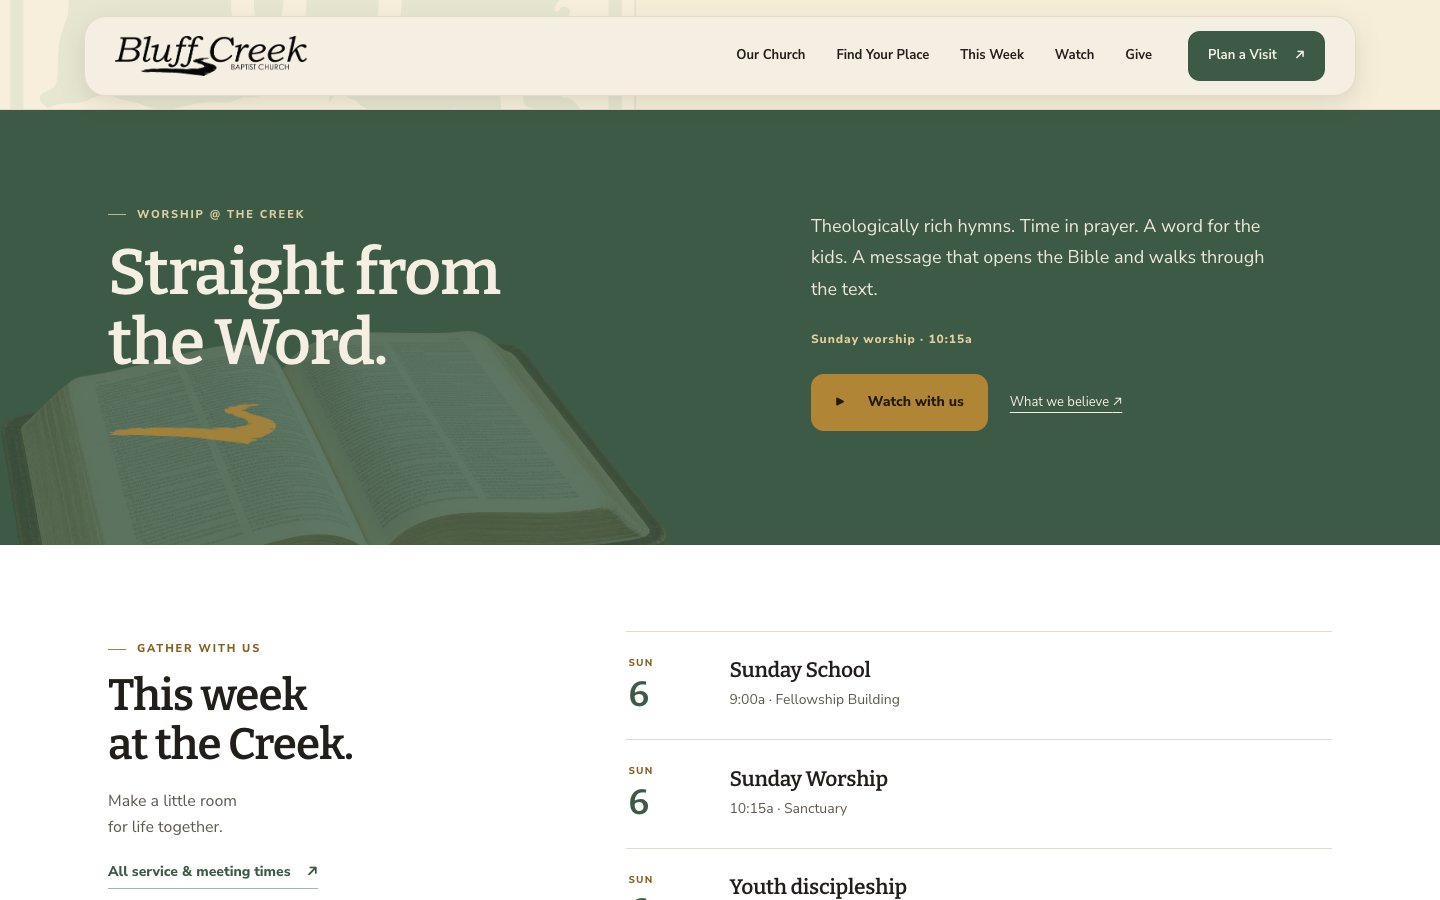
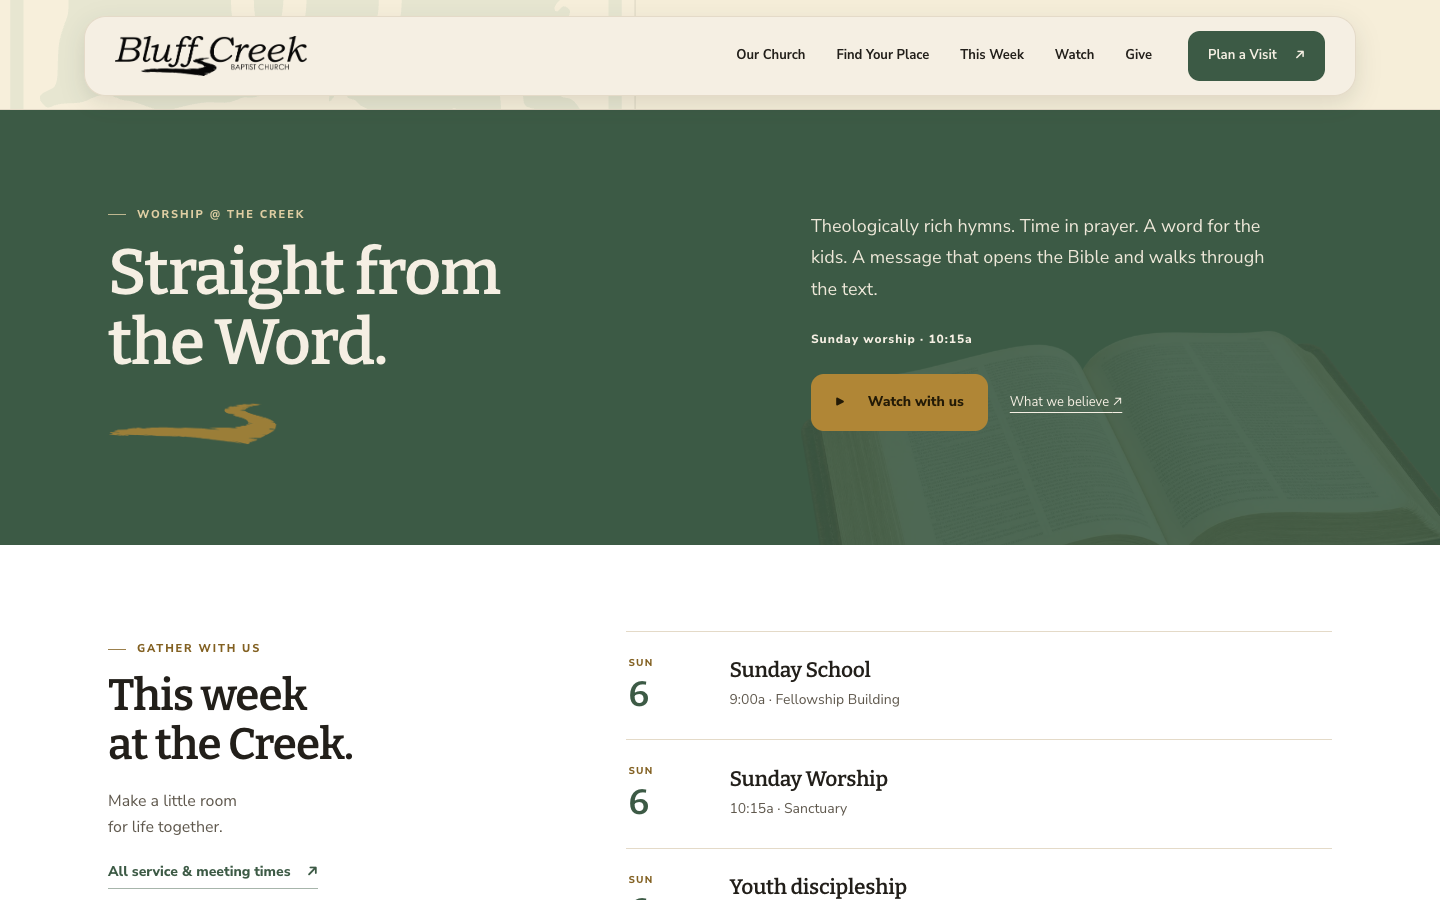
Position the transparent worship Bible on the right

Changed region(s): [[0.0312, 0.3422, 0.4688, 0.6222], [0.5625, 0.3733, 0.625, 0.4044]]

diff --git a/css/polish.css b/css/polish.css
@@ -582,8 +582,9 @@ footer a:focus-visible,.top a:focus-visible{outline-color:#e5c76f}
 .home-ministry:hover .ministry-arrow{background:var(--pine);color:var(--ivory)}
 .home-ministry:hover .lock{text-decoration:underline;text-underline-offset:5px}
 .editorial .home-worship{isolation:isolate;overflow:hidden;padding:100px 0}
-.worship-backdrop{position:absolute;z-index:-1;top:120px;left:max(-90px,calc(50vw - 760px));width:min(54vw,720px);opacity:.18;pointer-events:none;user-select:none}
+.worship-backdrop{position:absolute;z-index:-1;top:120px;right:max(-90px,calc(50vw - 760px));width:min(54vw,720px);opacity:.1;pointer-events:none;user-select:none}
 .worship-backdrop img{display:block;width:100%;height:auto}
+.home-worship .word-copy .word-time{color:var(--ivory)}
 .editorial .home-worship h2{font-size:clamp(42px,4.6vw,64px)}
 .page-index .week-band{background:var(--surface)}
 .editorial .home-visit .sunday-strip{margin:48px 0 0}
@@ -641,7 +642,7 @@ footer a:focus-visible,.top a:focus-visible{outline-color:#e5c76f}
   .home-ministry p{font-size:14px}
   .ministry-arrow{flex-basis:38px;height:38px;font-size:19px}
   .editorial .home-worship{padding:60px 0}
-  .worship-backdrop{top:100px;left:-18%;width:112%;max-width:580px;opacity:.1}
+  .worship-backdrop{top:100px;right:-18%;width:112%;max-width:580px}
   .editorial .home-worship h2{font-size:46px}
   .editorial .home-visit .sunday-strip{margin-top:32px}
   .home-pastor-note{display:block;margin-top:40px;padding-top:32px}

diff --git a/docs/verification.md b/docs/verification.md
@@ -2,7 +2,7 @@
 
 ## Current research-informed homepage — September 5, 2026
 
-The worship feature includes a generated open-Bible illustration with real alpha transparency. Its 1200×800 WebP is 105,266 bytes, has empty alt text inside an `aria-hidden` wrapper, preserves its aspect ratio, loads lazily, and cannot intercept pointers. At 1440/768/375/320 pixels there is no horizontal overflow. Actual rendered-background contrast passes: large heading 4.255:1 minimum, small label 4.924:1, body 4.993:1, time 4.991:1, beliefs link 6.692:1, and Watch button 5.164:1. Keyboard activation reaches Watch and Beliefs. The exact generation prompt, asset provenance, and alpha-preserving optimization are recorded in `assets/illustrations/README.md`; this is a generic decorative illustration.
+The worship feature includes a generated open-Bible illustration with real alpha transparency, positioned on the right at 10% opacity. The service-time label uses ivory for contrast over the image. Its 1200×800 WebP is 105,266 bytes, has empty alt text inside an `aria-hidden` wrapper, preserves its aspect ratio, loads lazily, and cannot intercept pointers. At 1440/768/375/320 pixels there is no horizontal overflow. Actual rendered-background contrast for the final right-hand placement passes: body 4.869:1 minimum, small label 4.924:1, time 5.338:1, beliefs link 5.197:1, and Watch button 5.164:1. The large heading also passes its 3:1 threshold. Keyboard activation reaches Watch and Beliefs. The exact generation prompt, asset provenance, and alpha-preserving optimization are recorded in `assets/illustrations/README.md`; this is a generic decorative illustration.
 
 The floating navigation was checked at 1440, 768, 375, and 320 pixels. No horizontal overflow, logo/menu collision, or numeric opening service times were found. The hero text passes actual background contrast sampling: minimum small-eyebrow contrast 4.525:1 and large-heading contrast 3.625:1. On a narrow phone, the header remains at the top while scrolling; Enter opens the menu, Tab reaches the navigation, Escape closes it and restores focus, and the Visit link navigates and closes the menu. A fresh phone load with JavaScript disabled shows all six navigation links, hides the menu button, and puts the header in normal flow with 14px panel padding; the hero starts immediately after the header without overlap or overflow.
 

diff --git a/docs/homestead-editorial.md b/docs/homestead-editorial.md
@@ -102,7 +102,7 @@ Photographs support the welcome when they help someone recognize a place or pers
 
 About uses existing staff portraits. Photography stays visually subdued. No new identifiable people, minors, or field-ministry photographs are introduced. Original files remain untouched; responsive derivatives strip metadata and never enlarge small originals.
 
-The worship feature uses a generated, photographic-style open-Bible illustration with a genuinely transparent background. It is a quiet decorative layer under the pine surface and headline, with no people or embedded readable quotation. Keep the original 3:2 proportions, empty alt text, low opacity, and lazy loading. The [asset provenance and exact prompt](../assets/illustrations/README.md) accompany the optimized WebP; actual church photography remains separately sourced.
+The worship feature uses a generated, photographic-style open-Bible illustration with a genuinely transparent background. It is a quiet decorative layer on the right side of the pine worship section, with no people or embedded readable quotation. Keep the original 3:2 proportions, empty alt text, low opacity, and lazy loading. The [asset provenance and exact prompt](../assets/illustrations/README.md) accompany the optimized WebP; actual church photography remains separately sourced.
 
 ## Applying the kit elsewhere
 

diff --git a/assets/illustrations/README.md b/assets/illustrations/README.md
@@ -34,5 +34,5 @@ Constraints: genuinely transparent alpha background, no white/cream/colored back
 
 ## Website use
 
-Use `worship-bible.webp` as a decorative image, with empty alt text (or a CSS background), rendered at low opacity beneath the section’s heading. Preserve the 3:2 canvas and transparency. Readable Scripture and all actual church copy remain HTML text. The full-resolution PNG stays with the review deliverables; this repository contains the optimized asset and its provenance.
+Use `worship-bible.webp` as a decorative image, with empty alt text (or a CSS background), rendered at low opacity on the right side of the worship section. Preserve the 3:2 canvas and transparency. Readable Scripture and all actual church copy remain HTML text. The full-resolution PNG stays with the review deliverables; this repository contains the optimized asset and its provenance.
 
